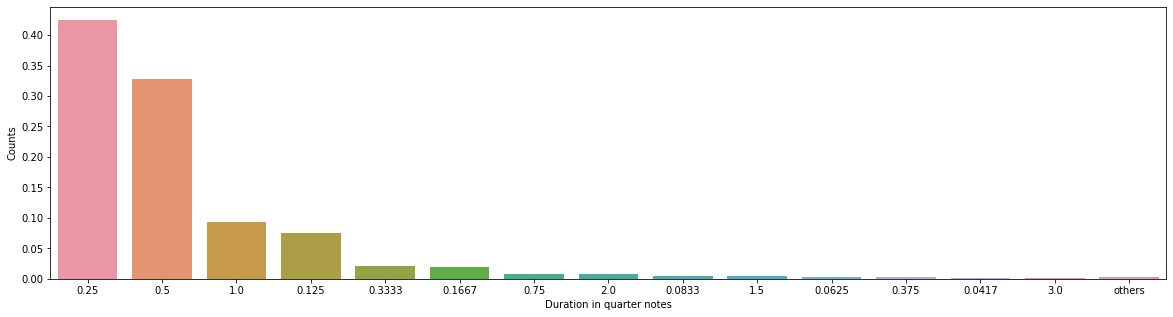
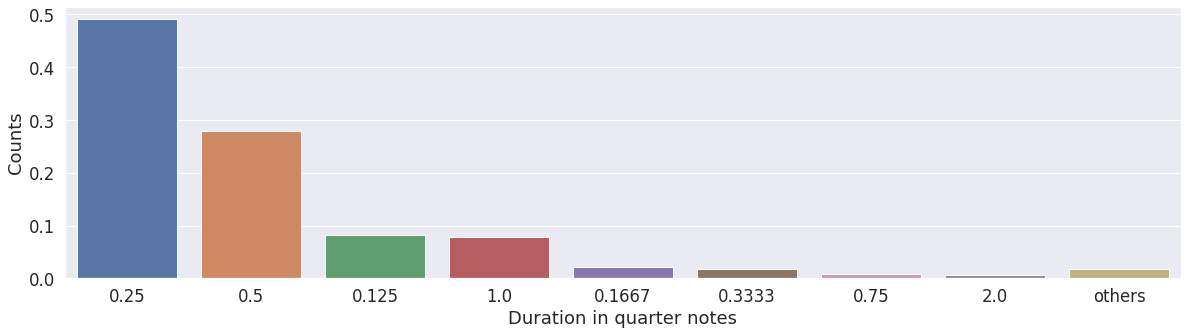
Autopush.

Changed region(s): [[0.0, 0.0284, 1.0, 0.9937], [0.0614, 0.0, 0.9821, 0.0284]]

diff --git a/chapters/5/input/sampling_of_the_score/32nd_note_frames.tex b/chapters/5/input/sampling_of_the_score/32nd_note_frames.tex
@@ -8,7 +8,8 @@ are rare. The majority of the note durations being 16th
 notes, as shown in \reffig{duration_distribution}.
 
 \phdfigure[Distribution of duration values across the
-aggregated dataset. The durations are indicated in number of
-quarter notes. Thus, a 32nd note, the sampling reference, is
-indicated as a duration of 0.125 quarter
-notes]{duration_distribution}
+training portion of the aggregated dataset. The durations
+are indicated in multiples of a quarter note
+(\musQuarter{}). Thus, the sampling reference
+\musThirtySecond{} is indicated as a duration of 0.125
+quarter notes]{duration_distribution}

diff --git a/chapters/5/dense_and_recurrent_layers.tex b/chapters/5/dense_and_recurrent_layers.tex
@@ -1,5 +1,5 @@
 % Copyright 2022 Néstor Nápoles López
 
 After the convolutional blocks are concatenated, the
-resulting tensor is processed by a set of dense layers,
-and eventually the \gls{rnn} layers.
+resulting tensor is processed by a set of dense layers, and
+eventually the \gls{rnn} layers.
